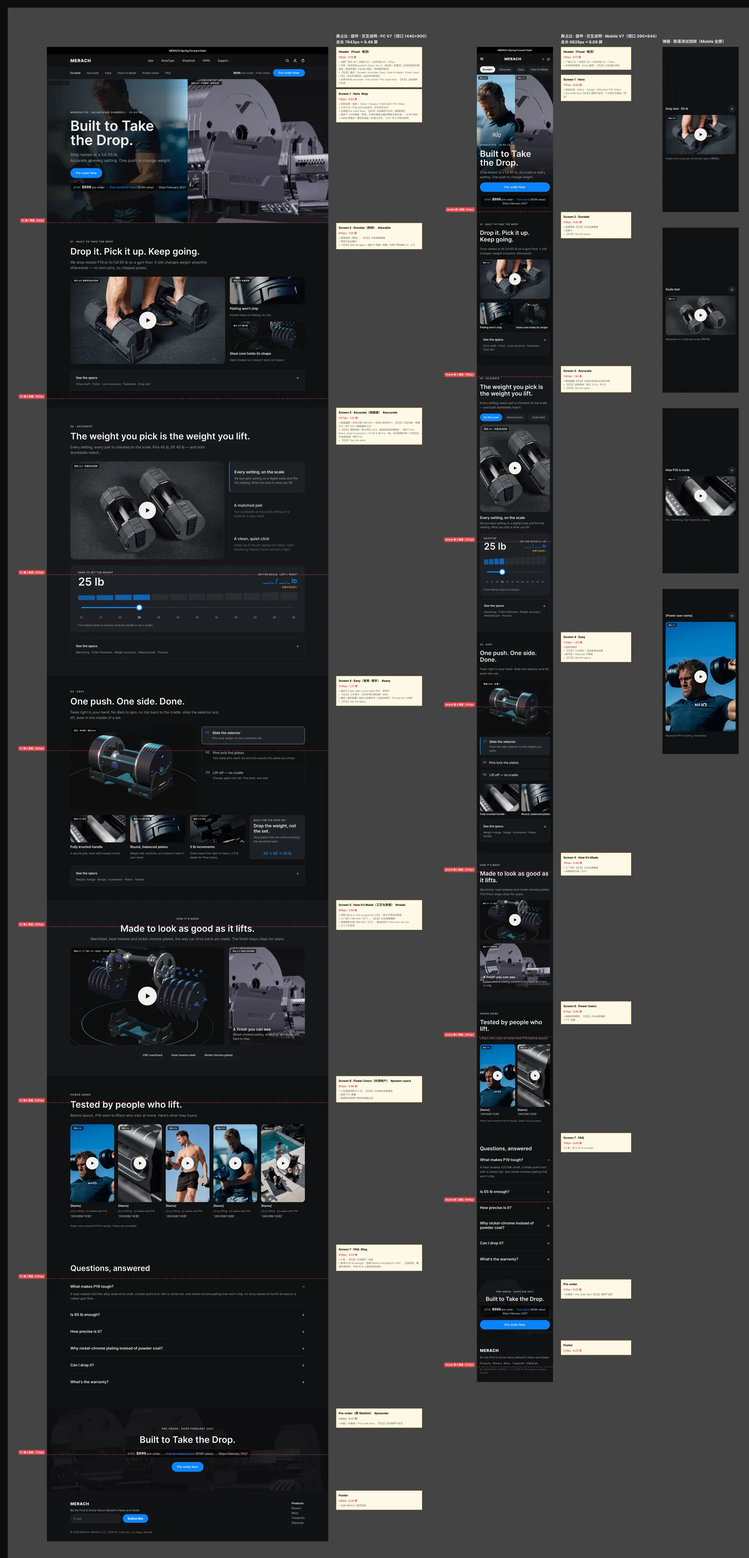
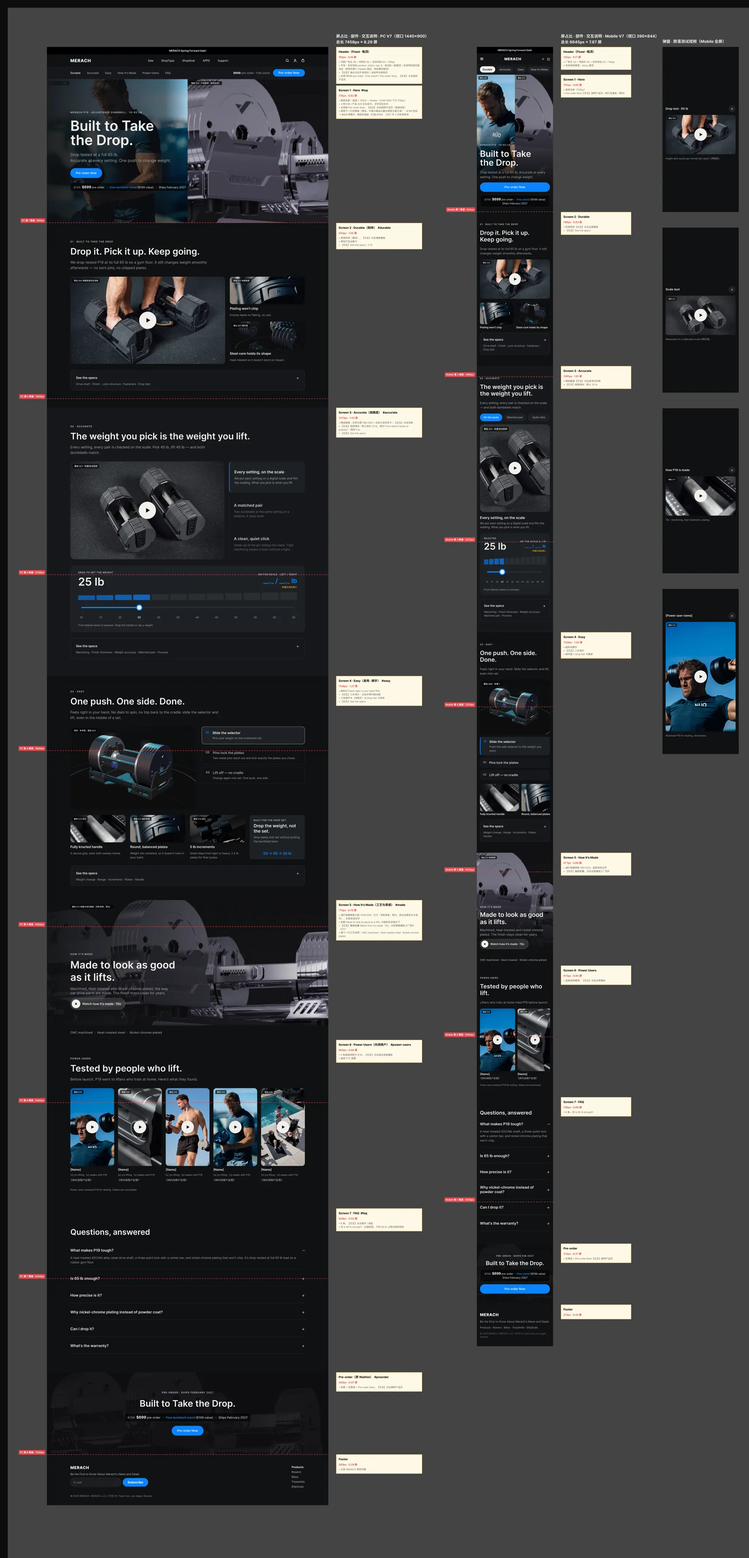
Explore: How It's Made as full-bleed finish macro with play pill
Claude-Session: https://claude.ai/code/session_01RNRjNYdB2DmXKuzbHkJAw4

diff --git a/handoff.html b/handoff.html
@@ -48,20 +48,20 @@ blockquote{margin:12px 0;padding:8px 14px;border-left:3px solid var(--accent);ba
 <li>英文主张 Built to Take the Drop 已确定；页面按“主张 → 三支柱”组织。</li></ul>
 <h2>二、屏占比</h2>
 <p>首屏全屏：Header + Hero 合计正好 1 屏（PC 1440×900、Mobile 390×844）。Header 含支柱导航，支柱导航吸顶。Accurate 承载画廊与滑块，允许约 1.5 屏；Easy 已压缩到约 1.3 屏（细节图与 Drop Set 卡同排）。</p>
-<div class="tw"><table><thead><tr><th>模块</th><th>锚点</th><th>PC 高度 px</th><th>PC 屏占比</th><th>Mobile 高度 px</th><th>Mobile 屏占比</th></tr></thead><tbody><tr><td>Header（广告位 + 导航 + 支柱导航，吸顶）</td><td>—</td><td>165</td><td>0.18</td><td>142</td><td>0.17</td></tr><tr><td>Screen 1 · Hero（全屏）</td><td>#top</td><td>735</td><td>0.82（与 Header 合计 1.00）</td><td>702</td><td>0.83（与 Header 合计 1.00）</td></tr><tr><td>Screen 2 · Durable（耐摔）</td><td>#durable</td><td>945</td><td>1.05</td><td>788</td><td>0.93</td></tr><tr><td>Screen 3 · Accurate（高精度）</td><td>#accurate</td><td>1372</td><td>1.52</td><td>1361</td><td>1.61</td></tr><tr><td>Screen 4 · Easy（易用 · 顺手）</td><td>#easy</td><td>1146</td><td>1.27</td><td>1128</td><td>1.34</td></tr><tr><td>Screen 5 · How It’s Made（工艺与质感）</td><td>#made</td><td>900</td><td>1.00</td><td>760</td><td>0.90</td></tr><tr><td>Screen 6 · Power Users</td><td>#power-users</td><td>862</td><td>0.96</td><td>673</td><td>0.80</td></tr><tr><td>Screen 7 · FAQ</td><td>#faq</td><td>838</td><td>0.93</td><td>749</td><td>0.89</td></tr><tr><td>Pre-order（原 Waitlist）</td><td>#preorder</td><td>420</td><td>0.47</td><td>312</td><td>0.37</td></tr><tr><td>Footer</td><td>—</td><td>260</td><td>0.29</td><td>213</td><td>0.25</td></tr><tr><td><b>合计</b></td><td></td><td><b>7643</b></td><td><b>8.49 屏</b></td><td><b>6828</b></td><td><b>8.09 屏</b></td></tr></tbody></table></div>
+<div class="tw"><table><thead><tr><th>模块</th><th>锚点</th><th>PC 高度 px</th><th>PC 屏占比</th><th>Mobile 高度 px</th><th>Mobile 屏占比</th></tr></thead><tbody><tr><td>Header（广告位 + 导航 + 支柱导航，吸顶）</td><td>—</td><td>165</td><td>0.18</td><td>142</td><td>0.17</td></tr><tr><td>Screen 1 · Hero（全屏）</td><td>#top</td><td>735</td><td>0.82（与 Header 合计 1.00）</td><td>702</td><td>0.83（与 Header 合计 1.00）</td></tr><tr><td>Screen 2 · Durable（耐摔）</td><td>#durable</td><td>945</td><td>1.05</td><td>788</td><td>0.93</td></tr><tr><td>Screen 3 · Accurate（高精度）</td><td>#accurate</td><td>1372</td><td>1.52</td><td>1361</td><td>1.61</td></tr><tr><td>Screen 4 · Easy（易用 · 顺手）</td><td>#easy</td><td>1146</td><td>1.27</td><td>1128</td><td>1.34</td></tr><tr><td>Screen 5 · How It’s Made（工艺与质感）</td><td>#made</td><td>715</td><td>0.79</td><td>577</td><td>0.68</td></tr><tr><td>Screen 6 · Power Users</td><td>#power-users</td><td>862</td><td>0.96</td><td>673</td><td>0.80</td></tr><tr><td>Screen 7 · FAQ</td><td>#faq</td><td>838</td><td>0.93</td><td>749</td><td>0.89</td></tr><tr><td>Pre-order（原 Waitlist）</td><td>#preorder</td><td>420</td><td>0.47</td><td>312</td><td>0.37</td></tr><tr><td>Footer</td><td>—</td><td>260</td><td>0.29</td><td>213</td><td>0.25</td></tr><tr><td><b>合计</b></td><td></td><td><b>7458</b></td><td><b>8.29 屏</b></td><td><b>6645</b></td><td><b>7.87 屏</b></td></tr></tbody></table></div>
 <h2>三、全局规范</h2>
 <h3>颜色</h3><div class="tw"><table><thead><tr><th>用途</th><th>色值</th><th>使用位置</th></tr></thead><tbody><tr><td>页面底</td><td>#0F1012</td><td>Hero、Durable、Accurate、FAQ</td></tr><tr><td>区块底</td><td>#16181B</td><td>支柱导航、规格抽屉、Easy</td></tr><tr><td>卡片</td><td>#1E2125</td><td>证据卡、滑块面板、画廊当前标签</td></tr><tr><td>分隔线</td><td>#2A2E33</td><td>卡片描边、三栏分隔</td></tr><tr><td>主文字</td><td>#F1F0EC</td><td>标题、强调</td></tr><tr><td>辅助文字</td><td>#A3A7AD</td><td>正文、说明</td></tr><tr><td>钢灰</td><td>#C7CCD2</td><td>Eyebrow、图形线条</td></tr><tr><td>主色</td><td>#0A84FF</td><td>按钮、滑块、当前标签与配重片高亮</td></tr><tr><td>待确认标记</td><td>#F5A524</td><td>仅设计稿使用，上线前删除</td></tr></tbody></table></div>
 <h3>字号</h3><p>设计稿字体为 Inter；如独立站已有品牌字体，以站内字体为准，字号与字重按下表。</p><div class="tw"><table><thead><tr><th>层级</th><th>PC</th><th>Mobile</th></tr></thead><tbody><tr><td>H1</td><td>72 / Semi Bold，行高 102%</td><td>44 / Semi Bold</td></tr><tr><td>H2</td><td>46 / Semi Bold</td><td>30 / Semi Bold</td></tr><tr><td>Eyebrow</td><td>12 / Semi Bold，全大写，字距 14%</td><td>11 / Semi Bold</td></tr><tr><td>正文</td><td>18 / Regular，行高 155%</td><td>15 / Regular</td></tr><tr><td>卡片标题</td><td>17 / Semi Bold</td><td>14 / Semi Bold</td></tr><tr><td>说明</td><td>14 / Regular</td><td>12–13 / Regular</td></tr><tr><td>按钮</td><td>15 / Semi Bold，高 52，全圆角</td><td>同 PC，通栏</td></tr></tbody></table></div>
 <p>圆角：图片与卡片 12–16，按钮与胶囊全圆角。屏与屏之间不留间距，靠 #0F1012 / #16181B 交替区分。</p>
 <h2>四、部件说明</h2>
-<div class="tw"><table><thead><tr><th>部件</th><th>位置</th><th>PC</th><th>Mobile</th><th>交互与状态</th></tr></thead><tbody><tr><td>顶部广告位 / 导航栏</td><td>全站</td><td>复用现有 Header</td><td>复用移动端 Header</td><td>随页面滚走</td></tr><tr><td>支柱导航</td><td>Header 下方</td><td>高 64，6 个锚点 + “$699 pre-order · Free stand” + Pre-order Now</td><td>高 53，横滑胶囊</td><td>吸顶（sticky）、滚动高亮、平滑滚动</td></tr><tr><td>Hero</td><td>Screen 1</td><td>高 = 100vh − Header；人物 / 产品各 720 宽铺满；左侧渐变，文案垂直居中</td><td>高 = 100vh − Header；人物 / 产品各 195 宽铺满；底部渐变，文案压在底部</td><td>Pre-order Now + 一行优惠条</td></tr><tr><td>视频位 + 弹窗</td><td>Screen 2、3、5、6</td><td>16:9；竖版 224×398</td><td>全屏弹窗</td><td>点击播放，关闭停止</td></tr><tr><td>证据卡</td><td>Screen 2</td><td>右侧两张产品图卡</td><td>两列</td><td>静态</td></tr><tr><td>精度画廊（Accurate Proof Gallery）</td><td>Screen 3</td><td>左大图 788×500 + 右侧 3 张标签卡</td><td>标签 + 大图 358×448 + 说明</td><td>点击切换；Mobile 可左右滑动</td></tr><tr><td>拖拽重量滑块（Weight Drag Slider）</td><td>Screen 3</td><td>宽 1200；大数字 + 左 / 右实测读数 + 12 段配重片 + 滑轨 + 刻度</td><td>宽 358，同结构</td><td>拖拽 / 点击刻度，吸附 5 lb</td></tr><tr><td>See the specs（规格抽屉）</td><td>Screen 2、3、4</td><td>收起时显示规格项目名；展开为三列表格</td><td>展开为纵向堆叠</td><td>点击展开 / 收起</td></tr><tr><td>步骤演示</td><td>Screen 4</td><td>主图 640×420 + 右侧 3 步</td><td>主图 358×280 + 纵向 3 步</td><td>点击切换；Mobile 可滑动</td></tr><tr><td>细节卡 + Drop Set 卡</td><td>Screen 4</td><td>四卡同排：3 张产品图 282×140 + 1 张 Drop Set 文字卡</td><td>同一行横滑 200×162 ×4</td><td>静态；Drop Set 注释必须保留</td></tr><tr><td>工厂短片 + 电镀微距大图</td><td>Screen 5</td><td>短片 788×500 + 微距 388×500（底部叠加说明），下方 3 个工艺标签</td><td>短片 358×201 + 微距 358×240</td><td>短片点击播放；微距静态</td></tr><tr><td>内测用户视频卡</td><td>Screen 6</td><td>5 张 9:16 卡片</td><td>横滑 4 张</td><td>点击竖版弹窗播放；FTC 披露</td></tr><tr><td>FAQ</td><td>Screen 7</td><td>宽 1200</td><td>通栏</td><td>手风琴；FAQPage 结构化数据</td></tr><tr><td>预售条（原 Waitlist）</td><td>页尾</td><td>标题 + 优惠条 + 按钮，居中</td><td>同 PC，按钮通栏，优惠条两行</td><td>点击跳转产品页</td></tr><tr><td>优惠条</td><td>Hero、页尾</td><td>一行胶囊：原价划线、预售价加粗、赠品蓝色</td><td>两行</td><td>静态；价格与赠品待整合营销确认</td></tr><tr><td>Footer</td><td>全站</td><td>复用</td><td>复用</td><td>不新开发</td></tr></tbody></table></div>
+<div class="tw"><table><thead><tr><th>部件</th><th>位置</th><th>PC</th><th>Mobile</th><th>交互与状态</th></tr></thead><tbody><tr><td>顶部广告位 / 导航栏</td><td>全站</td><td>复用现有 Header</td><td>复用移动端 Header</td><td>随页面滚走</td></tr><tr><td>支柱导航</td><td>Header 下方</td><td>高 64，6 个锚点 + “$699 pre-order · Free stand” + Pre-order Now</td><td>高 53，横滑胶囊</td><td>吸顶（sticky）、滚动高亮、平滑滚动</td></tr><tr><td>Hero</td><td>Screen 1</td><td>高 = 100vh − Header；人物 / 产品各 720 宽铺满；左侧渐变，文案垂直居中</td><td>高 = 100vh − Header；人物 / 产品各 195 宽铺满；底部渐变，文案压在底部</td><td>Pre-order Now + 一行优惠条</td></tr><tr><td>视频位 + 弹窗</td><td>Screen 2、3、5、6</td><td>16:9；竖版 224×398</td><td>全屏弹窗</td><td>点击播放，关闭停止</td></tr><tr><td>证据卡</td><td>Screen 2</td><td>右侧两张产品图卡</td><td>两列</td><td>静态</td></tr><tr><td>精度画廊（Accurate Proof Gallery）</td><td>Screen 3</td><td>左大图 788×500 + 右侧 3 张标签卡</td><td>标签 + 大图 358×448 + 说明</td><td>点击切换；Mobile 可左右滑动</td></tr><tr><td>拖拽重量滑块（Weight Drag Slider）</td><td>Screen 3</td><td>宽 1200；大数字 + 左 / 右实测读数 + 12 段配重片 + 滑轨 + 刻度</td><td>宽 358，同结构</td><td>拖拽 / 点击刻度，吸附 5 lb</td></tr><tr><td>See the specs（规格抽屉）</td><td>Screen 2、3、4</td><td>收起时显示规格项目名；展开为三列表格</td><td>展开为纵向堆叠</td><td>点击展开 / 收起</td></tr><tr><td>步骤演示</td><td>Screen 4</td><td>主图 640×420 + 右侧 3 步</td><td>主图 358×280 + 纵向 3 步</td><td>点击切换；Mobile 可滑动</td></tr><tr><td>细节卡 + Drop Set 卡</td><td>Screen 4</td><td>四卡同排：3 张产品图 282×140 + 1 张 Drop Set 文字卡</td><td>同一行横滑 200×162 ×4</td><td>静态；Drop Set 注释必须保留</td></tr><tr><td>通栏电镀微距 + 播放胶囊</td><td>Screen 5</td><td>通栏大图 1440×640，左侧渐变，标题与副标压在左下；播放胶囊 Watch how it’s made · 15s；图下一行工艺说明</td><td>通栏 390×520，底部渐变压字，同样的播放胶囊</td><td>点击胶囊弹窗播放工厂短片</td></tr><tr><td>内测用户视频卡</td><td>Screen 6</td><td>5 张 9:16 卡片</td><td>横滑 4 张</td><td>点击竖版弹窗播放；FTC 披露</td></tr><tr><td>FAQ</td><td>Screen 7</td><td>宽 1200</td><td>通栏</td><td>手风琴；FAQPage 结构化数据</td></tr><tr><td>预售条（原 Waitlist）</td><td>页尾</td><td>标题 + 优惠条 + 按钮，居中</td><td>同 PC，按钮通栏，优惠条两行</td><td>点击跳转产品页</td></tr><tr><td>优惠条</td><td>Hero、页尾</td><td>一行胶囊：原价划线、预售价加粗、赠品蓝色</td><td>两行</td><td>静态；价格与赠品待整合营销确认</td></tr><tr><td>Footer</td><td>全站</td><td>复用</td><td>复用</td><td>不新开发</td></tr></tbody></table></div>
 <h2>五、交互清单</h2>
 <div class="tw"><table><thead><tr><th>元素</th><th>交互</th></tr></thead><tbody><tr><td>Pre-order Now（首屏、吸顶导航、页尾预售条）</td><td>悬停变色；点击跳转 P19 产品页（链接待定）</td></tr><tr><td>优惠条</td><td>静态一行：99 划线 → 99 预售价 · 赠哑铃底座（价值 99）· 2027 年 2 月到货即发（预览，价格与赠品以整合营销方案为准）</td></tr><tr><td>支柱导航（吸顶）</td><td>position: sticky; top: 0，滚动后一直置顶；当前所在屏高亮；点击平滑滚动。锚点：Durable / Accurate / Easy / How It’s Made / Power Users / FAQ</td></tr><tr><td>视频播放按钮</td><td>点击弹窗播放：跌落测试、称重测试、工厂短片、内测用户竖版视频；Mobile 为全屏</td></tr><tr><td>精度画廊</td><td>PC：点击右侧三张标签卡切换左侧大图；Mobile：点击标签或左右滑动切换；称重卡带播放按钮</td></tr><tr><td>拖拽重量滑块</td><td>默认停在 25 lb，提示“From lateral raises to presses”；拖动把手或点击刻度，10–65 lb 每 5 lb 一档，吸附到档位；大数字、配重片高亮、左 / 右实测读数同步变化（实测值称重后填入）</td></tr><tr><td>See the specs</td><td>点击展开 / 收起；展开为“规格 / 参数 / 对用户意味着什么”，PC 三列表格，Mobile 纵向堆叠；三屏各 5 行</td></tr><tr><td>Easy 步骤</td><td>PC 点击 01 / 02 / 03 切换主图；Mobile 点击步骤或左右滑动图片切换</td></tr><tr><td>FAQ 手风琴</td><td>6 条（第 2 条为 Is 65 lb enough?）；默认展开第 1 条，同时只展开 1 条</td></tr></tbody></table></div>
 <p>所有组件的状态（悬停、展开、切换、表单流程）已在 Figma 组件区全部展开，可直接在原型中点击体验：</p>
 <img src="assets/explore-v5-components.webp" alt="Explore V7 交互组件与状态" loading="lazy">
 <h2>六、图片与视频位</h2>
 <p>请按下表尺寸出 2 倍图，格式 WebP；视频提供 MP4（H.264）与封面图。当前全部为占位图，上线前替换为实拍。</p>
-<div class="tw"><table><thead><tr><th>图位（拍摄编号）</th><th>PC 尺寸</th><th>Mobile 尺寸</th><th>说明</th></tr></thead><tbody><tr><td>hero 人物（S18）</td><td>720×735</td><td>195×702</td><td>人物使用场景，竖向裁切需保留人物主体</td></tr><tr><td>hero 产品静物（S20）</td><td>720×735</td><td>195×702</td><td>居家空间中的 P19</td></tr><tr><td>跌落测试（S06）</td><td>792×446 + MP4</td><td>358×201</td><td>正式跌落测试视频</td></tr><tr><td>称重测试（S21）</td><td>788×500 + MP4</td><td>358×448</td><td>各档上秤，读数特写</td></tr><tr><td>天平（S22）</td><td>788×500</td><td>358×448</td><td>两只等重，天平水平</td></tr><tr><td>插销微距（S23）</td><td>788×500 + MP4</td><td>358×448</td><td>插销慢动作，同期收音</td></tr><tr><td>证据卡（S07、S15）</td><td>384×140</td><td>173×110</td><td>爆炸图；电镀表面</td></tr><tr><td>步骤（S03–S05）</td><td>640×420 ×3</td><td>358×280 ×3</td><td>建议静音循环短视频</td></tr><tr><td>细节（S14、S15）</td><td>282×140 ×3</td><td>200×140 ×3</td><td>握把、圆形配重、档位</td></tr><tr><td>电镀微距（S15）</td><td>388×500</td><td>358×240</td><td>How It’s Made 质感大图，镍铬电镀与滚花特写</td></tr><tr><td>工厂短片（S17）</td><td>788×500 + MP4</td><td>358×201</td><td>15 秒：机加工、热处理、电镀</td></tr><tr><td>内测用户（S19）</td><td>224×398 封面 + 9:16 MP4 ×5</td><td>180×320 ×4</td><td>由内测用户提供</td></tr><tr><td>预售条背景</td><td>1440×420</td><td>390×312</td><td>文字区压暗</td></tr></tbody></table></div>
+<div class="tw"><table><thead><tr><th>图位（拍摄编号）</th><th>PC 尺寸</th><th>Mobile 尺寸</th><th>说明</th></tr></thead><tbody><tr><td>hero 人物（S18）</td><td>720×735</td><td>195×702</td><td>人物使用场景，竖向裁切需保留人物主体</td></tr><tr><td>hero 产品静物（S20）</td><td>720×735</td><td>195×702</td><td>居家空间中的 P19</td></tr><tr><td>跌落测试（S06）</td><td>792×446 + MP4</td><td>358×201</td><td>正式跌落测试视频</td></tr><tr><td>称重测试（S21）</td><td>788×500 + MP4</td><td>358×448</td><td>各档上秤，读数特写</td></tr><tr><td>天平（S22）</td><td>788×500</td><td>358×448</td><td>两只等重，天平水平</td></tr><tr><td>插销微距（S23）</td><td>788×500 + MP4</td><td>358×448</td><td>插销慢动作，同期收音</td></tr><tr><td>证据卡（S07、S15）</td><td>384×140</td><td>173×110</td><td>爆炸图；电镀表面</td></tr><tr><td>步骤（S03–S05）</td><td>640×420 ×3</td><td>358×280 ×3</td><td>建议静音循环短视频</td></tr><tr><td>细节（S14、S15）</td><td>282×140 ×3</td><td>200×140 ×3</td><td>握把、圆形配重、档位</td></tr><tr><td>电镀微距（S15）</td><td>1440×640（通栏，深色背景、侧光）</td><td>390×520</td><td>How It’s Made 质感大图，镍铬电镀与滚花特写</td></tr><tr><td>工厂短片（S17）</td><td>弹窗播放 MP4（16:9）</td><td>358×201</td><td>15 秒：机加工、热处理、电镀</td></tr><tr><td>内测用户（S19）</td><td>224×398 封面 + 9:16 MP4 ×5</td><td>180×320 ×4</td><td>由内测用户提供</td></tr><tr><td>预售条背景</td><td>1440×420</td><td>390×312</td><td>文字区压暗</td></tr></tbody></table></div>
 <h2>七、待确认</h2>
 <ul><li>重量精度 ±1.5%：待工厂确认实测数据，未确认前 Screen 3 规格抽屉与 FAQ 相关内容不得上线。</li>
 <li>跌落测试高度与次数：待正式报告，确认后补入 Screen 2 与视频弹窗说明。</li>

diff --git a/explore.html b/explore.html
@@ -43,7 +43,7 @@ blockquote{margin:12px 0;padding:8px 14px;border-left:3px solid var(--accent);ba
 <p>设计稿：<a href="https://www.figma.com/design/44z4t0SOMdf8TVVw1gtSZz/%E6%97%A0%E6%B0%A7P19?node-id=68-608" target="_blank" rel="noopener">Figma PC</a> · <a href="https://www.figma.com/design/44z4t0SOMdf8TVVw1gtSZz/%E6%97%A0%E6%B0%A7P19?node-id=70-679" target="_blank" rel="noopener">Figma Mobile</a>　可点击原型：<a href="https://www.figma.com/proto/44z4t0SOMdf8TVVw1gtSZz/%E6%97%A0%E6%B0%A7P19?node-id=68-608&amp;starting-point-node-id=68%3A608" target="_blank" rel="noopener">PC 原型</a> · <a href="https://www.figma.com/proto/44z4t0SOMdf8TVVw1gtSZz/%E6%97%A0%E6%B0%A7P19?node-id=70-679&amp;starting-point-node-id=70%3A679" target="_blank" rel="noopener">Mobile 原型</a>　屏占比与部件说明见 <a href="handoff.html">开发需求</a>。</p>
 <h2>本版调整</h2>
 <ul>
-<li><b>11/20 依据 Reddit 讨论：</b>FAQ 新增 Is 65 lb enough?；重量滑块默认停在 25 lb，提示 From lateral raises to presses；Easy 副标以 Feels right in your hand 开头，细节卡讲顺手；How It’s Made 改讲工艺带来的质感，加电镀微距大图。</li>
+<li><b>11/20 依据 Reddit 讨论：</b>FAQ 新增 Is 65 lb enough?；重量滑块默认停在 25 lb，提示 From lateral raises to presses；Easy 副标以 Feels right in your hand 开头，细节卡讲顺手；How It’s Made 改为通栏电镀微距大图讲质感，工厂短片收进播放胶囊。</li>
 <li><b>按钮改为直接下单：</b>取消等待名单，所有按钮改为 Pre-order Now，点击跳转产品页；按钮下方一行优惠条：99 划线 → 99 预售价 · 赠哑铃底座（价值 99）· 2027 年 2 月到货即发（预览，价格与赠品以整合营销方案为准）。</li>
 <li><b>首屏全屏：</b>PC 与 Mobile 首屏都铺满一屏；只保留一个主按钮，取消 Watch the Drop Test 和三支柱胶囊（与下方导航重复）。</li>
 <li><b>支柱导航吸顶：</b>Durable / Accurate / Easy 等锚点在滚动时一直置顶。</li>
@@ -53,7 +53,7 @@ blockquote{margin:12px 0;padding:8px 14px;border-left:3px solid var(--accent);ba
 <li><b>删除 Your Space 屏；</b>Mobile 与 PC 交互一致（画廊、滑块、步骤、规格、表单均可点击）。</li>
 </ul>
 <h2>页面结构</h2>
-<div class="tw"><table><thead><tr><th>屏</th><th>模块</th><th>要点</th></tr></thead><tbody><tr><td>1</td><td>Hero（全屏）</td><td>Built to Take the Drop.；人与产品各半铺满首屏；一个主按钮</td></tr><tr><td>—</td><td>支柱导航</td><td>吸顶；滚动高亮；点击平滑滚动</td></tr><tr><td>2</td><td>Durable · 耐摔</td><td>跌落测试视频 + 两张产品证据卡；See the specs（传动轴、表面、锁固结构、螺栓、跌落测试）</td></tr><tr><td>3</td><td>Accurate · 高精度</td><td>大图画廊（称重 / 天平 / 插销微距）+ 拖拽重量滑块；See the specs（加工、镀层厚度、重量精度、配对、工序）</td></tr><tr><td>4</td><td>Easy · 易用</td><td>三步演示 + 握把 / 圆形配重 / 档位与 Drop Set 四卡同排（Mobile 横滑）；See the specs（换重方式、重量范围、档位、配重片、握把）</td></tr><tr><td>5</td><td>How It’s Made · 工艺与质感</td><td>Made to look as good as it lifts.：15 秒工厂短片 + 电镀微距大图 + 三个工艺标签</td></tr><tr><td>6</td><td>Power Users · 内测用户</td><td>3–5 条竖版短视频，点击播放；FTC 披露</td></tr><tr><td>7</td><td>FAQ + 预售条</td><td>手风琴 6 条（含 Is 65 lb enough?）；页尾预售条（优惠条 + Pre-order Now）</td></tr></tbody></table></div>
+<div class="tw"><table><thead><tr><th>屏</th><th>模块</th><th>要点</th></tr></thead><tbody><tr><td>1</td><td>Hero（全屏）</td><td>Built to Take the Drop.；人与产品各半铺满首屏；一个主按钮</td></tr><tr><td>—</td><td>支柱导航</td><td>吸顶；滚动高亮；点击平滑滚动</td></tr><tr><td>2</td><td>Durable · 耐摔</td><td>跌落测试视频 + 两张产品证据卡；See the specs（传动轴、表面、锁固结构、螺栓、跌落测试）</td></tr><tr><td>3</td><td>Accurate · 高精度</td><td>大图画廊（称重 / 天平 / 插销微距）+ 拖拽重量滑块；See the specs（加工、镀层厚度、重量精度、配对、工序）</td></tr><tr><td>4</td><td>Easy · 易用</td><td>三步演示 + 握把 / 圆形配重 / 档位与 Drop Set 四卡同排（Mobile 横滑）；See the specs（换重方式、重量范围、档位、配重片、握把）</td></tr><tr><td>5</td><td>How It’s Made · 工艺与质感</td><td>通栏电镀微距大图，标题 Made to look as good as it lifts. 压在图上；播放胶囊点开 15 秒工厂短片；图下一行工艺说明</td></tr><tr><td>6</td><td>Power Users · 内测用户</td><td>3–5 条竖版短视频，点击播放；FTC 披露</td></tr><tr><td>7</td><td>FAQ + 预售条</td><td>手风琴 6 条（含 Is 65 lb enough?）；页尾预售条（优惠条 + Pre-order Now）</td></tr></tbody></table></div>
 <h2>交互清单</h2>
 <div class="tw"><table><thead><tr><th>元素</th><th>交互</th></tr></thead><tbody><tr><td>Pre-order Now（首屏、吸顶导航、页尾预售条）</td><td>悬停变色；点击跳转 P19 产品页（链接待定）</td></tr><tr><td>优惠条</td><td>静态一行：99 划线 → 99 预售价 · 赠哑铃底座（价值 99）· 2027 年 2 月到货即发（预览，价格与赠品以整合营销方案为准）</td></tr><tr><td>支柱导航（吸顶）</td><td>position: sticky; top: 0，滚动后一直置顶；当前所在屏高亮；点击平滑滚动。锚点：Durable / Accurate / Easy / How It’s Made / Power Users / FAQ</td></tr><tr><td>视频播放按钮</td><td>点击弹窗播放：跌落测试、称重测试、工厂短片、内测用户竖版视频；Mobile 为全屏</td></tr><tr><td>精度画廊</td><td>PC：点击右侧三张标签卡切换左侧大图；Mobile：点击标签或左右滑动切换；称重卡带播放按钮</td></tr><tr><td>拖拽重量滑块</td><td>默认停在 25 lb；拖动把手或点击刻度，10–65 lb 每 5 lb 一档，吸附到档位；大数字、配重片高亮、左 / 右实测读数同步变化（实测值称重后填入）</td></tr><tr><td>See the specs</td><td>点击展开 / 收起；展开为“规格 / 参数 / 对用户意味着什么”，PC 三列表格，Mobile 纵向堆叠；三屏各 5 行</td></tr><tr><td>Easy 步骤</td><td>PC 点击 01 / 02 / 03 切换主图；Mobile 点击步骤或左右滑动图片切换</td></tr><tr><td>FAQ 手风琴</td><td>6 条（第 2 条为 Is 65 lb enough?）；默认展开第 1 条，同时只展开 1 条</td></tr></tbody></table></div>
 <p>所有组件状态已在 Figma 组件区展开：</p>

diff --git a/product.html b/product.html
@@ -760,7 +760,7 @@ mm；工序为下料—开平—割板—粗车—CNC—精车—电镀—检验
 </tbody></table></div>
 <p>产品页与教育页的区别：教育页以视频和交互讲清楚“为什么”；产品页以静态信息图让用户几秒看懂卖点。教育页的视频不能直接当产品页主图，需从中取静帧或另出信息图。</p>
 <h2 id="六explore-教育页与拍摄清单">五、Explore 教育页与拍摄清单</h2>
-<p>Explore 教育页 V7（PC 与 Mobile）已在 <a href="https://www.figma.com/design/44z4t0SOMdf8TVVw1gtSZz/%E6%97%A0%E6%B0%A7P19?node-id=68-608">Figma「无氧P19」文件</a> 完成，并做成可点击原型（<a href="https://www.figma.com/proto/44z4t0SOMdf8TVVw1gtSZz/%E6%97%A0%E6%B0%A7P19?node-id=68-608&amp;starting-point-node-id=68%3A608">PC</a> / <a href="https://www.figma.com/proto/44z4t0SOMdf8TVVw1gtSZz/%E6%97%A0%E6%B0%A7P19?node-id=70-679&amp;starting-point-node-id=70%3A679">Mobile</a>），PC 与 Mobile 交互一致。11/18 二轮调整：首屏全屏，只留一个主按钮 Pre-order Now（跳转产品页），下方一行优惠条（$799→$699、赠哑铃底座、2 月到货即发，预览，以整合营销方案为准）；支柱导航吸顶；高精度屏改为大图画廊加拖拽滑块；删除 Your Space 屏；三个 See the specs 展开为“规格 / 参数 / 对用户意味着什么”的详细说明；Easy 屏细节图与 Drop Set 并为一排。11/20：FAQ 新增 Is 65 lb enough?；重量滑块默认 25 lb；Easy 副标讲顺手；How It’s Made 改为讲工艺带来的质感，加电镀微距大图。PC 全长 7,643px（约 8.5 屏），Mobile 全长 6,828px（约 8.1 屏）。屏占比、部件与交互说明见“开发需求”页。</p>
+<p>Explore 教育页 V7（PC 与 Mobile）已在 <a href="https://www.figma.com/design/44z4t0SOMdf8TVVw1gtSZz/%E6%97%A0%E6%B0%A7P19?node-id=68-608">Figma「无氧P19」文件</a> 完成，并做成可点击原型（<a href="https://www.figma.com/proto/44z4t0SOMdf8TVVw1gtSZz/%E6%97%A0%E6%B0%A7P19?node-id=68-608&amp;starting-point-node-id=68%3A608">PC</a> / <a href="https://www.figma.com/proto/44z4t0SOMdf8TVVw1gtSZz/%E6%97%A0%E6%B0%A7P19?node-id=70-679&amp;starting-point-node-id=70%3A679">Mobile</a>），PC 与 Mobile 交互一致。11/18 二轮调整：首屏全屏，只留一个主按钮 Pre-order Now（跳转产品页），下方一行优惠条（$799→$699、赠哑铃底座、2 月到货即发，预览，以整合营销方案为准）；支柱导航吸顶；高精度屏改为大图画廊加拖拽滑块；删除 Your Space 屏；三个 See the specs 展开为“规格 / 参数 / 对用户意味着什么”的详细说明；Easy 屏细节图与 Drop Set 并为一排。11/20：FAQ 新增 Is 65 lb enough?；重量滑块默认 25 lb；Easy 副标讲顺手；How It’s Made 改为通栏电镀微距大图讲质感，工厂短片收进播放胶囊。PC 全长 7,458px（约 8.3 屏），Mobile 全长 6,645px（约 7.9 屏）。屏占比、部件与交互说明见“开发需求”页。</p>
 <div class="tw"><table>
 <thead><tr class="header"><th>屏</th><th>模块</th><th>图片 / 视频数</th><th>对应拍摄</th></tr></thead>
 <tbody>
@@ -768,7 +768,7 @@ mm；工序为下料—开平—割板—粗车—CNC—精车—电镀—检验
 <tr><td>2</td><td>Durable：跌落测试视频 + 两张产品证据卡 + See the specs</td><td>3</td><td>S06、S07、S15</td></tr>
 <tr><td>3</td><td>Accurate：大图画廊（称重 / 天平 / 插销微距，点击或滑动切换）+ 拖拽重量滑块 + See the specs</td><td>3</td><td>S21、S22、S23</td></tr>
 <tr><td>4</td><td>Easy：三步演示 + 握把 / 圆形配重 / 档位与 Drop Set（P1b）四卡同排 + See the specs</td><td>6</td><td>S03–S05、S14、S15</td></tr>
-<tr><td>5</td><td>How It’s Made（工艺与质感）：15 秒工厂短片 + 电镀微距大图 + 三个工艺标签</td><td>2</td><td>S17、S15</td></tr>
+<tr><td>5</td><td>How It’s Made（工艺与质感）：通栏电镀微距大图 + 播放胶囊（15 秒工厂短片）+ 一行工艺说明</td><td>2</td><td>S17、S15</td></tr>
 <tr><td>6</td><td>Power Users：内测用户竖版短视频 3–5 条</td><td>5</td><td>S19</td></tr>
 <tr><td>7</td><td>FAQ（6 条，含 Is 65 lb enough?）+ 页尾预售条</td><td>—</td><td>—</td></tr>
 </tbody>
